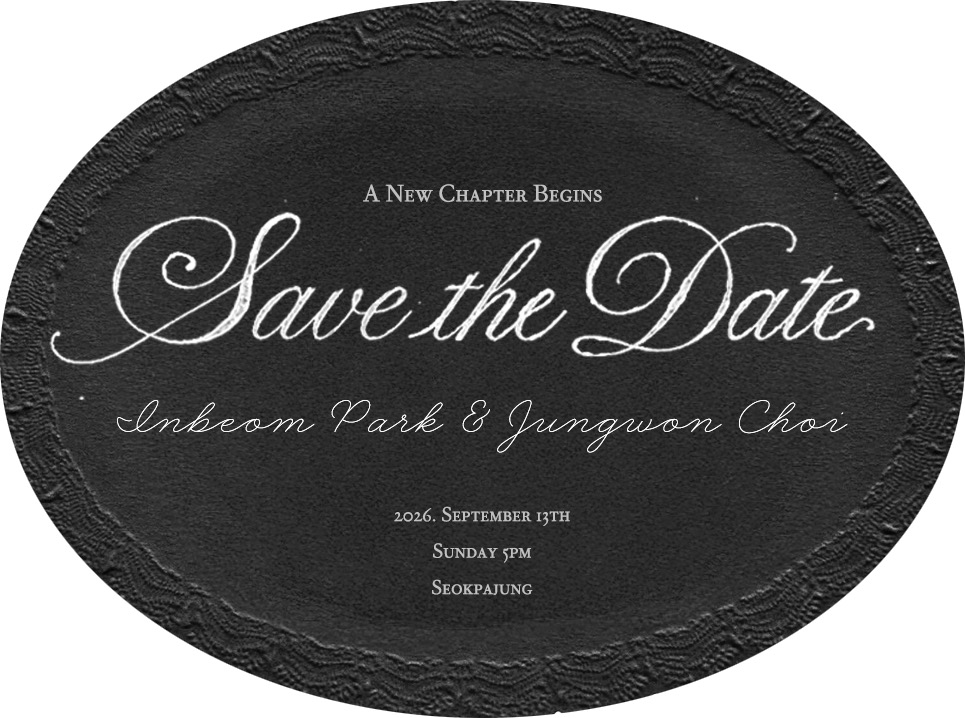
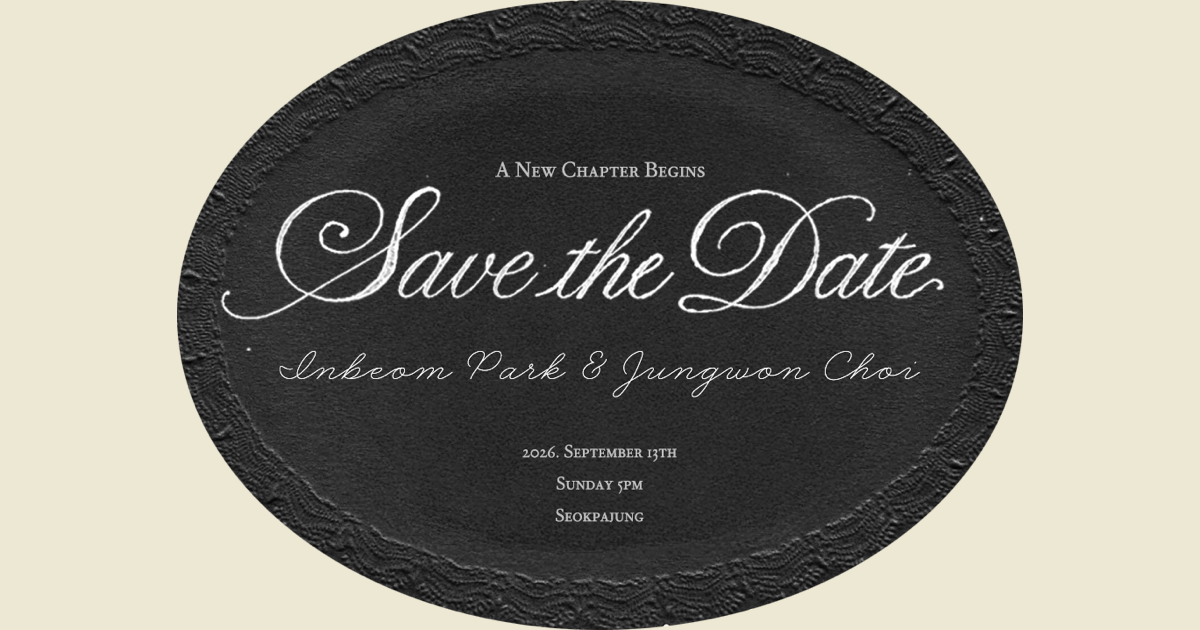
사진 확대 로직 수정

diff --git a/src/App.jsx b/src/App.jsx
@@ -1,9 +1,99 @@
-import { useState, useEffect } from 'react'
+import { useState, useRef, useEffect } from 'react'
 import InviteHero from './InviteHero.jsx'
 import RsvpModal from './RsvpModal.jsx'
-import { preloadPhotos } from './photos.js'
+import { PHOTO_COUNT, photoSrc, preloadPhotos } from './photos.js'
+import { useScrollLock } from './useScrollLock.js'
+
+function Lightbox({ index, onClose, onPrev, onNext }) {
+  const overlayRef = useRef(null)
+  const touchStart = useRef(null)
+
+  useScrollLock(true)
+
+  useEffect(() => {
+    const onKey = (e) => {
+      if (e.key === 'ArrowLeft') onPrev()
+      if (e.key === 'ArrowRight') onNext()
+      if (e.key === 'Escape') onClose()
+    }
+    window.addEventListener('keydown', onKey)
+    return () => window.removeEventListener('keydown', onKey)
+  }, [onPrev, onNext, onClose])
+
+  useEffect(() => {
+    const el = overlayRef.current
+    if (!el) return undefined
+
+    const blockTouchMove = (e) => e.preventDefault()
+    el.addEventListener('touchmove', blockTouchMove, { passive: false })
+    return () => el.removeEventListener('touchmove', blockTouchMove)
+  }, [])
+
+  const handleTouchStart = (e) => {
+    const t = e.touches[0]
+    touchStart.current = { x: t.clientX, y: t.clientY }
+  }
+
+  const handleTouchEnd = (e) => {
+    if (!touchStart.current) return
+    const t = e.changedTouches[0]
+    const dx = t.clientX - touchStart.current.x
+    const dy = t.clientY - touchStart.current.y
+    touchStart.current = null
+
+    if (Math.abs(dx) > 40 && Math.abs(dx) > Math.abs(dy)) {
+      dx < 0 ? onNext() : onPrev()
+    }
+  }
+
+  return (
+    <div
+      ref={overlayRef}
+      className="lightbox"
+      onClick={onClose}
+      onTouchStart={handleTouchStart}
+      onTouchEnd={handleTouchEnd}
+    >
+      {index > 0 && (
+        <button
+          type="button"
+          className="lightbox-nav lightbox-nav--prev"
+          onClick={(e) => { e.stopPropagation(); onPrev() }}
+        >‹</button>
+      )}
+
+      <img
+        key={index}
+        src={photoSrc(index)}
+        alt={`wedding ${index + 1}`}
+        className="lightbox-img"
+        draggable={false}
+        onClick={(e) => e.stopPropagation()}
+      />
+
+      {index < PHOTO_COUNT - 1 && (
+        <button
+          type="button"
+          className="lightbox-nav lightbox-nav--next"
+          onClick={(e) => { e.stopPropagation(); onNext() }}
+        >›</button>
+      )}
+
+      <button
+        type="button"
+        className="lightbox-close"
+        onClick={onClose}
+      >✕</button>
+
+      <p className="lightbox-counter">
+        {index + 1} / {PHOTO_COUNT}
+      </p>
+    </div>
+  )
+}
 
 function App({ animateSaveDate = false }) {
+  const [lightboxIndex, setLightboxIndex] = useState(null)
   const [photosUnlocked, setPhotosUnlocked] = useState(false)
   const [rsvpOpen, setRsvpOpen] = useState(false)
 
@@ -18,10 +108,20 @@ function App({ animateSaveDate = false }) {
         animate={animateSaveDate}
         photosUnlocked={photosUnlocked}
         onPhotosUnlock={() => setPhotosUnlocked(true)}
+        onPhotoClick={setLightboxIndex}
         onRsvpClick={() => setRsvpOpen(true)}
       />
 
       <RsvpModal open={rsvpOpen} onClose={() => setRsvpOpen(false)} />
+
+      {lightboxIndex !== null && (
+        <Lightbox
+          index={lightboxIndex}
+          onClose={() => setLightboxIndex(null)}
+          onPrev={() => setLightboxIndex((i) => Math.max(0, i - 1))}
+          onNext={() => setLightboxIndex((i) => Math.min(PHOTO_COUNT - 1, i + 1))}
+        />
+      )}
     </div>
   )
 }

diff --git a/src/InviteHero.jsx b/src/InviteHero.jsx
@@ -75,7 +75,7 @@ function MapSection() {
   )
 }
 
-function PhotoGateSection({ onUnlock, unlocked }) {
+function PhotoGateSection({ onUnlock, unlocked, onPhotoClick }) {
   const { ref, inView } = useInView(0.1)
 
   useEffect(() => {
@@ -110,13 +110,20 @@ function PhotoGateSection({ onUnlock, unlocked }) {
       ) : (
         <div className="photo-grid-slot photos-reveal grid w-full grid-cols-3 gap-1">
           {Array.from({ length: PHOTO_COUNT }, (_, i) => (
-            <img
+            <button
               key={i}
-              src={photoSrc(i)}
-              alt={`wedding ${i + 1}`}
-              className="photo-grid-img aspect-square w-full object-cover"
-              draggable={false}
-            />
+              type="button"
+              className="photo-grid-btn border-0 bg-transparent p-0"
+              aria-label={`사진 ${i + 1} 크게 보기`}
+              onClick={() => onPhotoClick(i)}
+            >
+              <img
+                src={photoSrc(i)}
+                alt={`wedding ${i + 1}`}
+                className="photo-grid-img aspect-square w-full object-cover"
+                draggable={false}
+              />
+            </button>
           ))}
         </div>
       )}
@@ -132,7 +139,7 @@ function PhotoGateSection({ onUnlock, unlocked }) {
   )
 }
 
-export default function InviteHero({ animate, photosUnlocked, onPhotosUnlock, onRsvpClick }) {
+export default function InviteHero({ animate, photosUnlocked, onPhotosUnlock, onPhotoClick, onRsvpClick }) {
   const { ref: saveDateRef, inView: saveDateInView } = useInView(0.2)
 
   return (
@@ -178,6 +185,7 @@ export default function InviteHero({ animate, photosUnlocked, onPhotosUnlock, on
       <PhotoGateSection
         onUnlock={onPhotosUnlock}
         unlocked={photosUnlocked}
+        onPhotoClick={onPhotoClick}
       />
     </div>
   )

diff --git a/src/index.css b/src/index.css
@@ -278,12 +278,89 @@
   animation: fadeIn 0.6s cubic-bezier(0.22, 1, 0.36, 1) forwards;
 }
 
+.photo-grid-btn {
+  display: block;
+  width: 100%;
+  cursor: pointer;
+  -webkit-tap-highlight-color: transparent;
+}
+
 .photo-grid-img {
+  display: block;
   touch-action: manipulation;
   -webkit-touch-callout: none;
   user-select: none;
   -webkit-user-drag: none;
   pointer-events: none;
+}
+
+/* 사진 전체화면 뷰어 — 줌 없음, 배경 스크롤 차단 */
+.lightbox {
+  position: fixed;
+  inset: 0;
+  z-index: 50;
+  display: flex;
+  align-items: center;
+  justify-content: center;
+  background: #ede8d4;
+  overscroll-behavior: none;
+  touch-action: none;
+  animation: fadeIn 0.2s ease;
+}
+
+.lightbox-img {
+  max-height: 100svh;
+  max-width: 100%;
+  object-fit: contain;
+  touch-action: manipulation;
+  -webkit-touch-callout: none;
+  user-select: none;
+  -webkit-user-drag: none;
+  pointer-events: none;
+  animation: fadeIn 0.2s ease;
+}
+
+.lightbox-nav {
+  position: absolute;
+  top: 50%;
+  transform: translateY(-50%);
+  border: none;
+  background: transparent;
+  padding: 0.75rem;
+  font-size: 1.875rem;
+  line-height: 1;
+  color: rgb(0 0 0 / 0.35);
+  cursor: pointer;
+}
+
+.lightbox-nav--prev {
+  left: 0.75rem;
+}
+
+.lightbox-nav--next {
+  right: 0.75rem;
+}
+
+.lightbox-close {
+  position: absolute;
+  top: 1rem;
+  right: 1rem;
+  border: none;
+  background: transparent;
+  padding: 0.5rem;
+  font-size: 1.25rem;
+  line-height: 1;
+  color: rgb(0 0 0 / 0.4);
+  cursor: pointer;
+}
+
+.lightbox-counter {
+  position: absolute;
+  bottom: 1.25rem;
+  margin: 0;
+  font-size: 0.75rem;
+  letter-spacing: 0.1em;
+  color: rgb(0 0 0 / 0.35);
 }
 
 /* RSVP 모달 */

diff --git a/src/useScrollLock.js b/src/useScrollLock.js
@@ -1,0 +1,30 @@
+import { useEffect } from 'react'
+
+/** iOS 포함 — 오버레이 열릴 때 배경 스크롤 고정 */
+export function useScrollLock(active) {
+  useEffect(() => {
+    if (!active) return undefined
+
+    const scrollY = window.scrollY
+    const { style } = document.body
+    const prev = {
+      position: style.position,
+      top: style.top,
+      width: style.width,
+      overflow: style.overflow,
+    }
+
+    style.position = 'fixed'
+    style.top = `-${scrollY}px`
+    style.width = '100%'
+    style.overflow = 'hidden'
+
+    return () => {
+      style.position = prev.position
+      style.top = prev.top
+      style.width = prev.width
+      style.overflow = prev.overflow
+      window.scrollTo(0, scrollY)
+    }
+  }, [active])
+}

diff --git a/index.html b/index.html
@@ -13,8 +13,8 @@
   <meta property="og:description" content="인범 · 정원의 결혼식에 초대합니다" />
   <meta property="og:url" content="https://inbeom-jungwon.github.io/wedding/" />
   <meta property="og:image" content="https://inbeom-jungwon.github.io/wedding/og-image.jpg" />
-  <meta property="og:image:width" content="965" />
-  <meta property="og:image:height" content="718" />
+  <meta property="og:image:width" content="1200" />
+  <meta property="og:image:height" content="630" />
   <meta name="twitter:card" content="summary_large_image" />
   <link rel="preconnect" href="https://fonts.googleapis.com" />
   <link rel="preconnect" href="https://fonts.gstatic.com" crossorigin />
